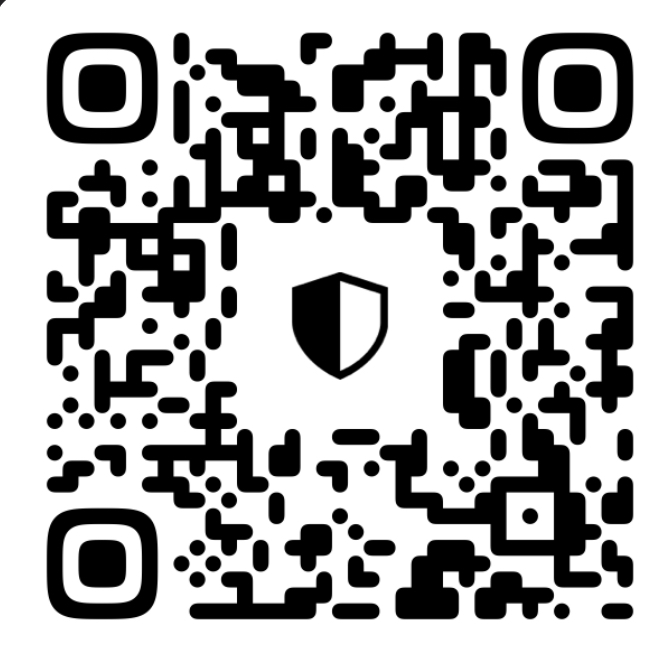
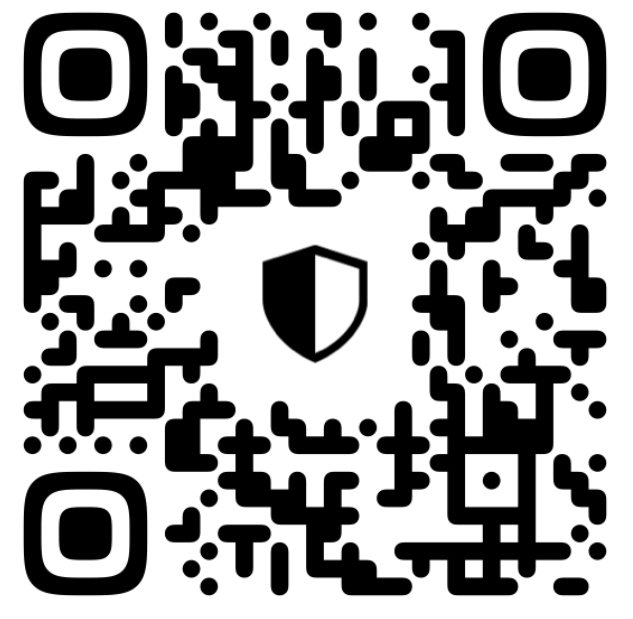
done

diff --git a/pay-tuition.html b/pay-tuition.html
@@ -89,7 +89,7 @@
     </div>
     <div id="bitcoin-img">
     <img src="./bitcoin-qr.jpeg" width="150px">
-    <p style="margin:0; font-family: 'Lucida Sans', 'Lucida Sans Regular', 'Lucida Grande', 'Lucida Sans Unicode', Geneva, Verdana, sans-serif; font-size: 13px;">bc1q5yj709ufggfle8ljqv22vlxheesjykjkdy06sp</p>
+    <p style="margin:0; font-family: 'Lucida Sans', 'Lucida Sans Regular', 'Lucida Grande', 'Lucida Sans Unicode', Geneva, Verdana, sans-serif; font-size: 13px;">TMwEVkFfoCyTKyghkMmgKtkdr1qaRHvS8B</p>
    
     <br/>
     <p style="font-weight: bold;">Payment amount: <span  class="bitcoin-amount"></span></p>
